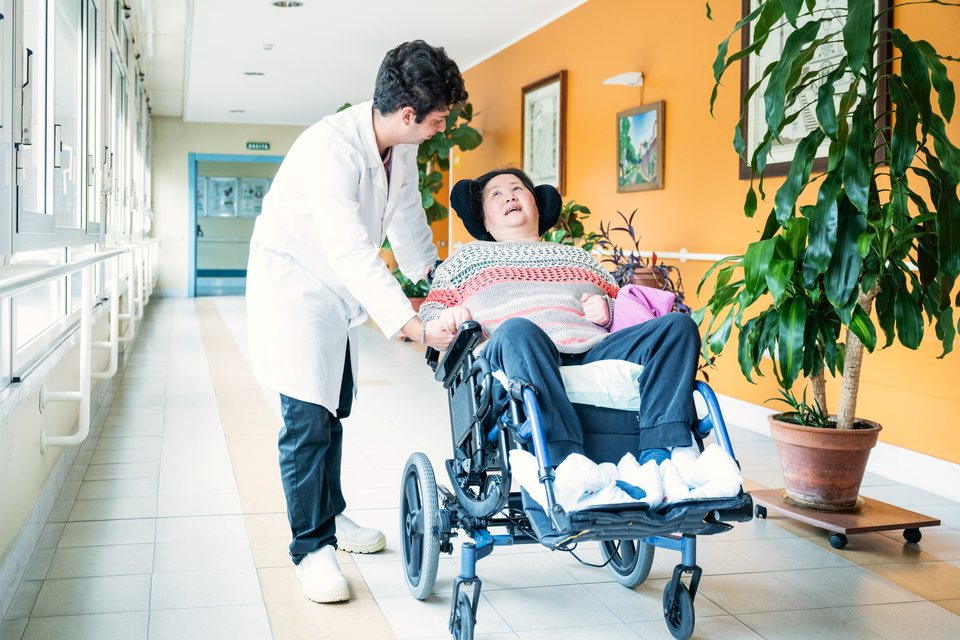
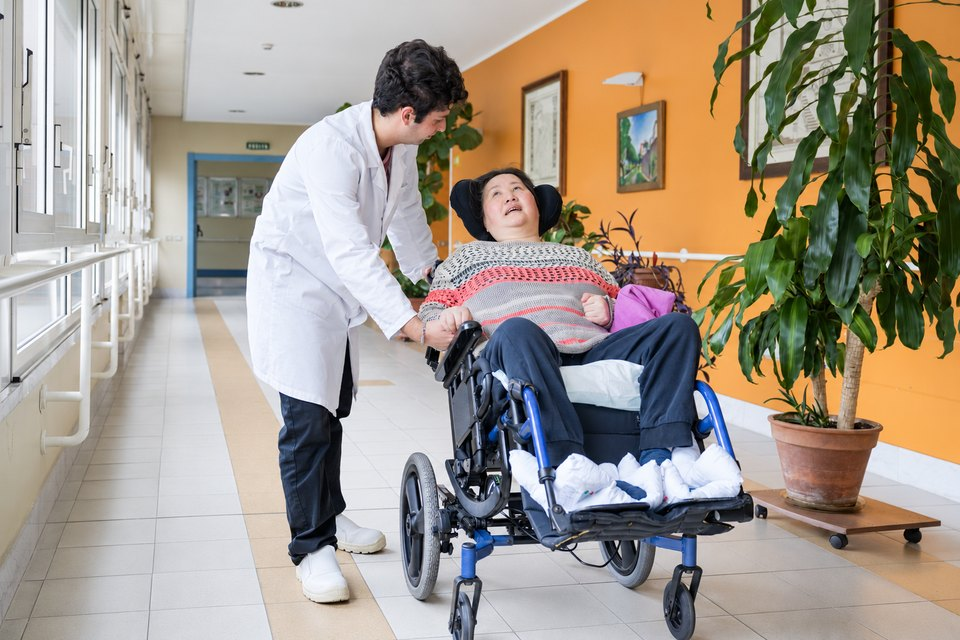
Cura: copertina con la versione della foto corretta da Fulvio (decisione 99)
Claude-Session: https://claude.ai/code/session_01BQi7WiYJEohpxYxZG1Bp29

diff --git a/cura.html b/cura.html
@@ -117,7 +117,7 @@
      TESTI E FOTO PROVVISORI, da validare con il Cottolengo. -->
 <main id="contenuto">
   <section class="project-cover" aria-labelledby="project-title">
-    <picture><source type="image/webp" srcset="assets/img/pagine/cura-cottolengo-medico-ospite-carrozzina-960.webp 960w, assets/img/pagine/cura-cottolengo-medico-ospite-carrozzina-1600.webp 1600w" sizes="100vw"><img class="project-cover__image" src="assets/img/pagine/cura-cottolengo-medico-ospite-carrozzina-1600.jpg" srcset="assets/img/pagine/cura-cottolengo-medico-ospite-carrozzina-960.jpg 960w, assets/img/pagine/cura-cottolengo-medico-ospite-carrozzina-1600.jpg 1600w" sizes="100vw" width="1600" height="1067" alt="Un medico in camice si china verso un'ospite in carrozzina che lo guarda sorridendo, in un corridoio luminoso del Cottolengo" style="object-position: 45% 15%; --fuoco: 45% 15%"></picture>
+    <picture><source type="image/webp" srcset="assets/img/pagine/cura-cottolengo-medico-ospite-carrozzina-960.webp 960w, assets/img/pagine/cura-cottolengo-medico-ospite-carrozzina-1536.webp 1536w" sizes="100vw"><img class="project-cover__image" src="assets/img/pagine/cura-cottolengo-medico-ospite-carrozzina-1536.jpg" srcset="assets/img/pagine/cura-cottolengo-medico-ospite-carrozzina-960.jpg 960w, assets/img/pagine/cura-cottolengo-medico-ospite-carrozzina-1536.jpg 1536w" sizes="100vw" width="1536" height="1024" alt="Un medico in camice si china verso un'ospite in carrozzina che lo guarda sorridendo, in un corridoio luminoso del Cottolengo" style="object-position: 45% 15%; --fuoco: 45% 15%"></picture>
     <div class="project-cover__shade" aria-hidden="true"></div>
     <div class="container project-cover__inner">
       <div class="project-cover__title">

diff --git a/DECISIONI-DESIGN.md b/DECISIONI-DESIGN.md
@@ -1481,8 +1481,8 @@ Foto vera fornita dal Cottolengo: una fisioterapista sorridente segue una pazien
 ## 99. Cura: copertina con il medico e l'ospite in carrozzina (27/10/2026)
 
 Provata la foto della fisioterapia (decisione 98), poi scelta questa, fornita dal Cottolengo: un medico in camice si china verso un'ospite in carrozzina che lo guarda sorridendo, nel corridoio arancione. Due persone che si guardano: la relazione di cura si sente di più, ed è più calda. I volti restano interi su schermo largo, portatile e telefono.
-- **Colore** (richiesta di Fulvio): bianchi resi neutri (via la leggera dominante fredda), curva a S leggera per il contrasto, vibrance sui colori spenti, un filo di calore nei mezzitoni.
-- File `assets/img/pagine/cura-cottolengo-medico-ospite-carrozzina-960/1600` (3:2, JPG e WebP), fuoco 45% 15%.
+- **Colore:** usata la versione corretta da Fulvio (più calda e luminosa), al posto della correzione automatica.
+- File `assets/img/pagine/cura-cottolengo-medico-ospite-carrozzina-960/1536` (3:2, JPG e WebP; 1536 px è la misura della versione di Fulvio, non ingrandita), fuoco 45% 15%.
 - Alt: «Un medico in camice si china verso un'ospite in carrozzina che lo guarda sorridendo, in un corridoio luminoso del Cottolengo».
 - Le foto della fisioterapia (`cura-cottolengo-fisioterapia-palestra-*`, già pubblicate) restano in cartella e possono tornare in galleria.
 
